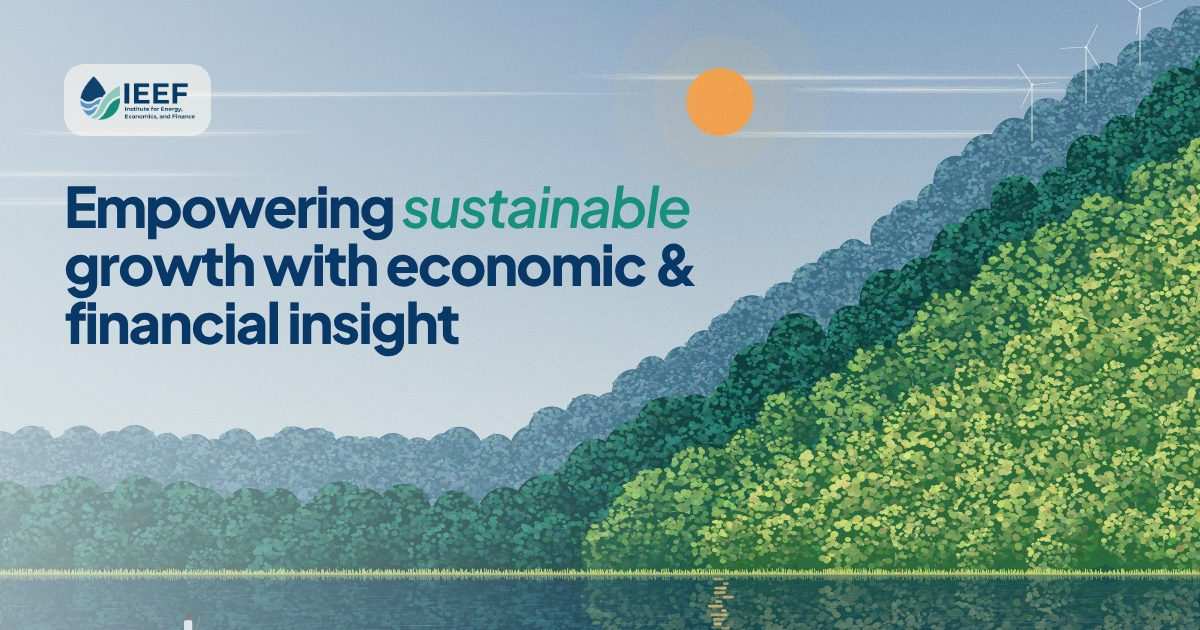
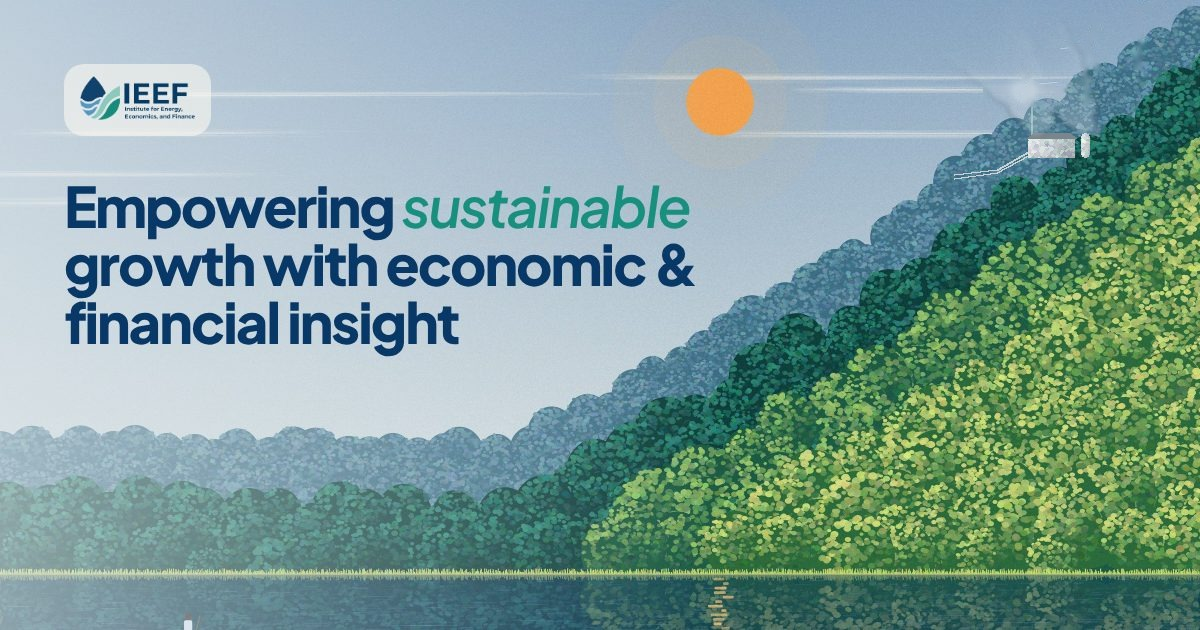
Remove remaining wind turbines and solar panels from site art
- About section (ieef-at-work): turbines and solar rows replaced by the
  geothermal plant used in the hero
- Link-preview image (og-default): turbines replaced by the geothermal plant
- poster_energy: turbines removed
Per the Executive Director: baseload sources only, no variable renewables.

Claude-Session: https://claude.ai/code/session_01BvYvy65aAUYkkGj2ujMZr2

Changed region(s): [[0.8325, 0.0905, 0.925, 0.2714], [0.8017, 0.2714, 0.8325, 0.3016]]

diff --git a/migration/cover-scenes/baseload-stills.py b/migration/cover-scenes/baseload-stills.py
@@ -1,0 +1,50 @@
+"""One-off (Nov 2026): strip wind turbines and solar panels from the remaining stills and add the geothermal plant
+used in the hero, per the Executive Director (baseload sources only). Reuses the painters in hero-animate.py.
+Run from this folder: python3 baseload-stills.py  (edits the files in place; run once against the Oct 2026 art)
+"""
+import importlib.util, numpy as np, cv2
+from PIL import Image, ImageDraw, ImageFilter
+
+spec = importlib.util.spec_from_file_location('hero', 'hero-animate.py'); hero = importlib.util.module_from_spec(spec); spec.loader.exec_module(hero)
+ART = '../../src/assets/art'
+
+def erase_lines(img, box):
+    """Turbines are thin bright strokes: find them with a top-hat (bright minus opened) so leaf dabs and the sun stay.
+    Horizontal kernel catches poles and steep blades; vertical kernel catches flat blades, minus long cloud streaks."""
+    a = np.asarray(img).copy(); H, W, _ = a.shape
+    x0, x1, y0, y1 = int(box[0] * W), int(box[1] * W), int(box[2] * H), int(box[3] * H)
+    sub = np.ascontiguousarray(a[y0:y1, x0:x1]); lum = cv2.cvtColor(sub, cv2.COLOR_RGB2GRAY)
+    k = max(9, W // 110)
+    th = cv2.morphologyEx(lum, cv2.MORPH_TOPHAT, np.ones((1, k), np.uint8)) > 24
+    tv = (cv2.morphologyEx(lum, cv2.MORPH_TOPHAT, np.ones((k, 1), np.uint8)) > 24) & ~th
+    n, lab, st, _ = cv2.connectedComponentsWithStats(tv.astype(np.uint8))
+    clouds = np.isin(lab, [i for i in range(1, n) if st[i, cv2.CC_STAT_WIDTH] > W * .13])
+    m = ((th | tv) & ~clouds).astype(np.uint8)
+    n, lab, st, _ = cv2.connectedComponentsWithStats(m)   # keep long strokes only; leaf dabs are small blobs
+    m = np.isin(lab, [i for i in range(1, n) if max(st[i, cv2.CC_STAT_WIDTH], st[i, cv2.CC_STAT_HEIGHT]) > 4 * k]).astype(np.uint8) * 255
+    m = cv2.dilate(m, np.ones((5, 5), np.uint8))
+    a[y0:y1, x0:x1] = cv2.inpaint(sub, m, 4, cv2.INPAINT_TELEA)
+    return Image.fromarray(a)
+
+def erase_solar(img, box):
+    """Cover the panel rows with the hedge texture directly above them, feathered so no seam shows."""
+    W, H = img.size; x0, x1, y0, y1 = int(box[0] * W), int(box[1] * W), int(box[2] * H), int(box[3] * H)
+    patch = img.crop((x0, 2 * y0 - y1, x1, y0))
+    m = Image.new('L', patch.size, 0); ImageDraw.Draw(m).rounded_rectangle([6, 6, patch.width - 6, patch.height - 6], 14, fill=255)
+    img.paste(patch, (x0, y0), m.filter(ImageFilter.GaussianBlur(5)))
+    return img
+
+# file, turbine box, solar box, plant (x, ground y, scale)
+JOBS = [
+    (f'{ART}/ieef-at-work.jpg', (0.63, 0.96, 0.19, 0.50), (0.62, 1.0, 0.545, 0.632), (0.87, 0.432, 2.0)),
+    (f'{ART}/poster_energy.jpg', (0.80, 1.0, 0.30, 0.47), None, None),   # sun sits on that ridge: no plant, just clear sky
+    ('../../public/og-default.jpg', (0.82, 0.985, 0.0, 0.26), None, (0.885, 0.245, 0.9)),
+]
+
+for path, tb, sb, pl in JOBS:
+    img = erase_lines(Image.open(path).convert('RGB'), tb)
+    if sb: img = erase_solar(img, sb)
+    s = hero.kit(img); vents = hero.plant(s, *pl) if pl else []
+    W, H = img.size; ov = Image.new('RGBA', img.size, (0, 0, 0, 0)); hero.steam(ov, vents, W, H, 0.0, 1)
+    out = img.convert('RGBA'); out.alpha_composite(ov); out.convert('RGB').save(path, quality=92)
+    print('done', path)
